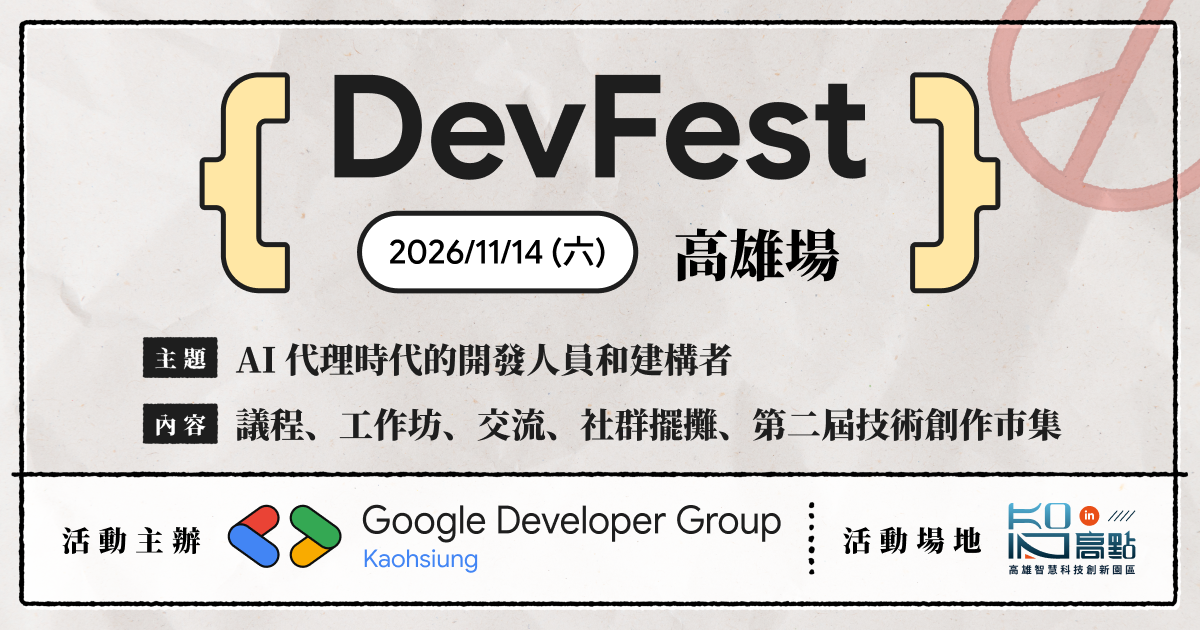
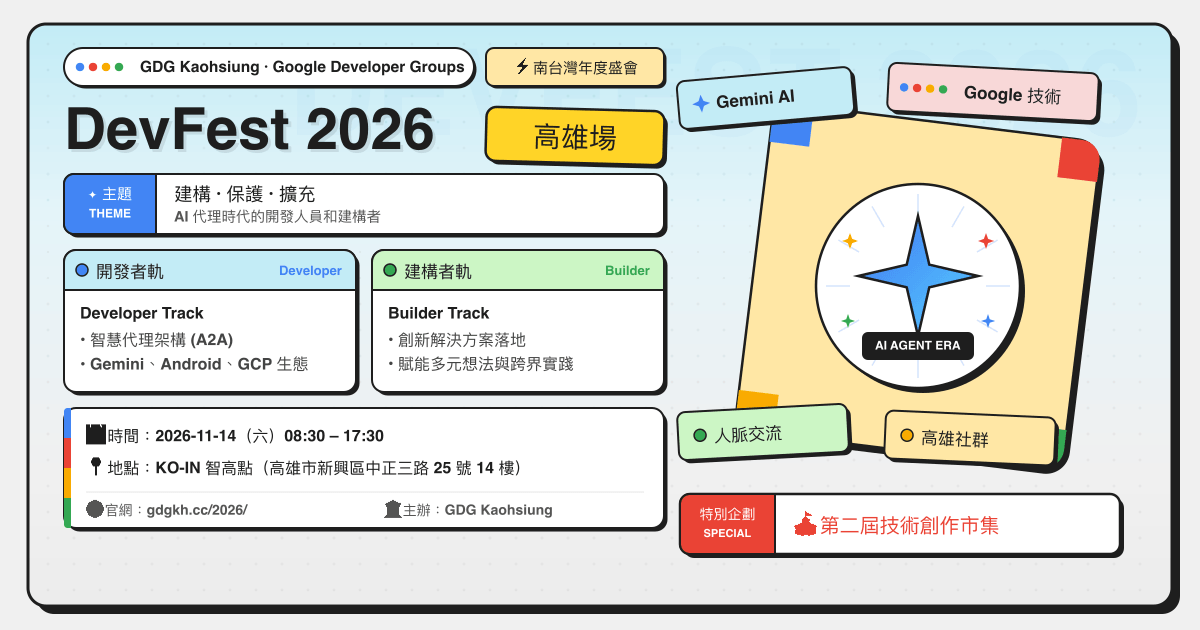
build(2026): 升級圖片建置管線與 CI 快取機制並加強衍生圖檢查
- optimize-images.mjs 加入 SHA-1 內容雜湊快取與地圖轉碼支援
- agenda.js 支援會場地圖 WebP 衍生檔與響應式 srcset
- deploy.yml 加入 .optimize-cache.json 快取機制，縮短 CI 部署耗時
- check.mjs 增加衍生 WebP 圖檔存在性防呆檢查
- generate-site-og.mjs 與 render-og.mjs 引入 Sharp 圖片量化壓縮

diff --git a/2026/assets/js/sections/agenda.js b/2026/assets/js/sections/agenda.js
@@ -89,9 +89,25 @@ function renderMapSection(container) {
       return;
     }
     current = index;
-    const src = `images/${map.file}`;
+    const rawFile = map.file || '';
+    let src = `images/${rawFile}`;
+    let srcset = '';
+    const match = rawFile.match(/^([^/.]+)\.(jpg|jpeg|png)$/i);
+    if (match) {
+      const [, base] = match;
+      src = `images/${base}-720.webp`;
+      srcset = `images/${base}-720.webp 720w, images/${base}-1200.webp 1200w`;
+    }
     const alt = t(map.caption);
+    image.dataset.gkOriginalSrc = `images/${rawFile}`;
     image.setAttribute('src', src);
+    if (srcset) {
+      image.setAttribute('srcset', srcset);
+      image.setAttribute('sizes', '(max-width: 768px) 100vw, 720px');
+    } else {
+      image.removeAttribute('srcset');
+      image.removeAttribute('sizes');
+    }
     image.setAttribute('alt', alt);
     setRichText(caption, alt);
     for (const btn of buttons) {
@@ -124,8 +140,15 @@ function renderMapSection(container) {
     if (!map) {
       return;
     }
-    openImageViewer({ src: `images/${map.file}`, alt: t(map.caption) });
-    track('view_venue_map', { map_file: map.file });
+    const rawFile = map.file || '';
+    let src = `images/${rawFile}`;
+    const match = rawFile.match(/^([^/.]+)\.(jpg|jpeg|png)$/i);
+    if (match) {
+      const [, base] = match;
+      src = `images/${base}-1200.webp`;
+    }
+    openImageViewer({ src, alt: t(map.caption) });
+    track('view_venue_map', { map_file: rawFile });
   };
   attachActivation(image, openViewer);
 
